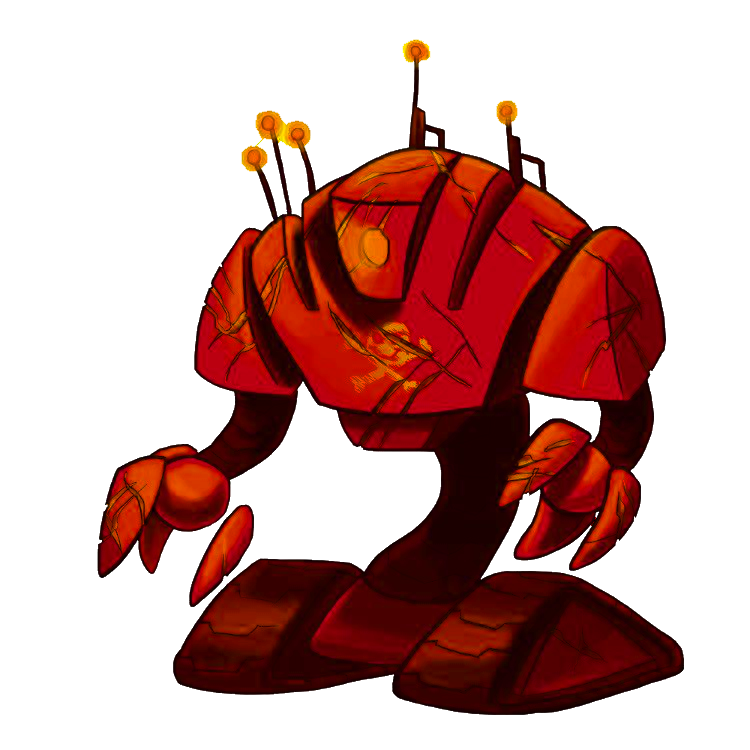
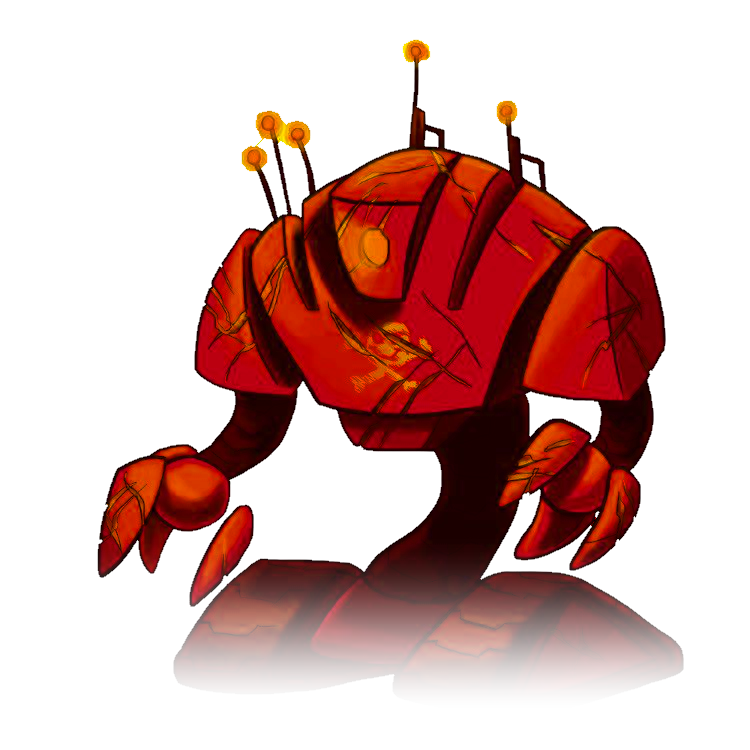
Fade the Coindroid feet and make the travel dots swipeable.
The cutout loses its pale edge and shrinks by 20 percent, and a horizontal swipe on the dots moves between worlds in Starlane and Constellation.

diff --git a/src/components/catalog/use-travel-swipe.ts b/src/components/catalog/use-travel-swipe.ts
@@ -1,0 +1,44 @@
+"use client";
+
+import { useRef, type MouseEvent, type PointerEvent } from "react";
+
+/**
+ * Horizontal swipe on the travel dots. A leftward swipe advances to the
+ * next universe; a rightward swipe returns to the previous one.
+ */
+export function useTravelSwipe(
+  active: number,
+  count: number,
+  onIndex: (index: number) => void,
+) {
+  const swipe = useRef<{ x: number; y: number; swiped: boolean } | null>(null);
+
+  return {
+    onPointerDown(event: PointerEvent<HTMLDivElement>) {
+      if (event.pointerType === "mouse" && event.button !== 0) return;
+      try {
+        event.currentTarget.setPointerCapture(event.pointerId);
+      } catch {
+        // A pointer that is no longer active cannot be captured.
+      }
+      swipe.current = { x: event.clientX, y: event.clientY, swiped: false };
+    },
+    onPointerUp(event: PointerEvent<HTMLDivElement>) {
+      const start = swipe.current;
+      if (!start) return;
+      const dx = event.clientX - start.x;
+      const dy = event.clientY - start.y;
+      if (Math.abs(dx) >= 24 && Math.abs(dx) > Math.abs(dy)) {
+        start.swiped = true;
+        const next = Math.min(count - 1, Math.max(0, active + (dx < 0 ? 1 : -1)));
+        if (next !== active) onIndex(next);
+      }
+    },
+    onClickCapture(event: MouseEvent<HTMLDivElement>) {
+      if (!swipe.current?.swiped) return;
+      event.preventDefault();
+      event.stopPropagation();
+      swipe.current = null;
+    },
+  };
+}

diff --git a/src/components/catalog/views/starlane.tsx b/src/components/catalog/views/starlane.tsx
@@ -7,6 +7,7 @@ import {
   UniverseAtmosphere,
 } from "@/components/catalog/universe-atmosphere";
 import { CatalogViewPicker } from "@/components/catalog/catalog-view-picker";
+import { useTravelSwipe } from "@/components/catalog/use-travel-swipe";
 import { UniverseDossier } from "@/components/catalog/universe-dossier";
 import { featuredGameIndex, games } from "@/lib/content";
 import { cn } from "@/lib/utils";
@@ -101,6 +102,8 @@ export function StarlaneView() {
     if (!inView) setInView(true);
   };
 
+  const travelSwipe = useTravelSwipe(active, games.length, select);
+
   const trackWidth = games.length * slot;
 
   return (
@@ -135,7 +138,8 @@ export function StarlaneView() {
           <div
             role="tablist"
             aria-label="Travel between universes"
-            className="pointer-events-auto flex h-[43px] w-[98px] items-center justify-center gap-3"
+            className="pointer-events-auto flex h-[43px] w-[98px] touch-none items-center justify-center gap-3"
+            {...travelSwipe}
           >
             {games.map((game, index) => {
               const selected = expanded && index === active;

diff --git a/src/components/catalog/views/constellation.tsx b/src/components/catalog/views/constellation.tsx
@@ -7,6 +7,7 @@ import {
   UniverseAtmosphere,
 } from "@/components/catalog/universe-atmosphere";
 import { CatalogViewPicker } from "@/components/catalog/catalog-view-picker";
+import { useTravelSwipe } from "@/components/catalog/use-travel-swipe";
 import { UniverseDossier } from "@/components/catalog/universe-dossier";
 import { featuredGameIndex, games } from "@/lib/content";
 import { cn } from "@/lib/utils";
@@ -198,6 +199,8 @@ export function ConstellationView() {
     setActive(index);
   };
 
+  const travelSwipe = useTravelSwipe(active, games.length, select);
+
   return (
     <section
       ref={sectionRef}
@@ -245,7 +248,8 @@ export function ConstellationView() {
           <div
             role="tablist"
             aria-label="Travel between universes"
-            className="pointer-events-auto flex h-[43px] w-[98px] items-center justify-center gap-3"
+            className="pointer-events-auto flex h-[43px] w-[98px] touch-none items-center justify-center gap-3"
+            {...travelSwipe}
           >
             {games.map((game, index) => {
               const selected = engaged && index === active;

diff --git a/src/components/catalog/universe-atmosphere.tsx b/src/components/catalog/universe-atmosphere.tsx
@@ -163,7 +163,7 @@ function CoindroidsField({ active }: { active: boolean }) {
       <div className="universe-ruins absolute inset-0 opacity-45" />
       <div
         className={cn(
-          "absolute top-[54%] -right-16 md:top-[610px] md:-right-[161px]",
+          "absolute top-[54%] -right-8 md:top-[610px] md:-right-[42px]",
           active ? "coindroid-fade-in" : "opacity-0",
         )}
       >
@@ -172,7 +172,7 @@ function CoindroidsField({ active }: { active: boolean }) {
           alt=""
           width={750}
           height={750}
-          className="h-[min(63vh,595px)] w-[min(63vh,595px)] object-contain opacity-80"
+          className="h-[min(50.4vh,476px)] w-[min(50.4vh,476px)] object-contain opacity-80"
         />
       </div>
     </div>
